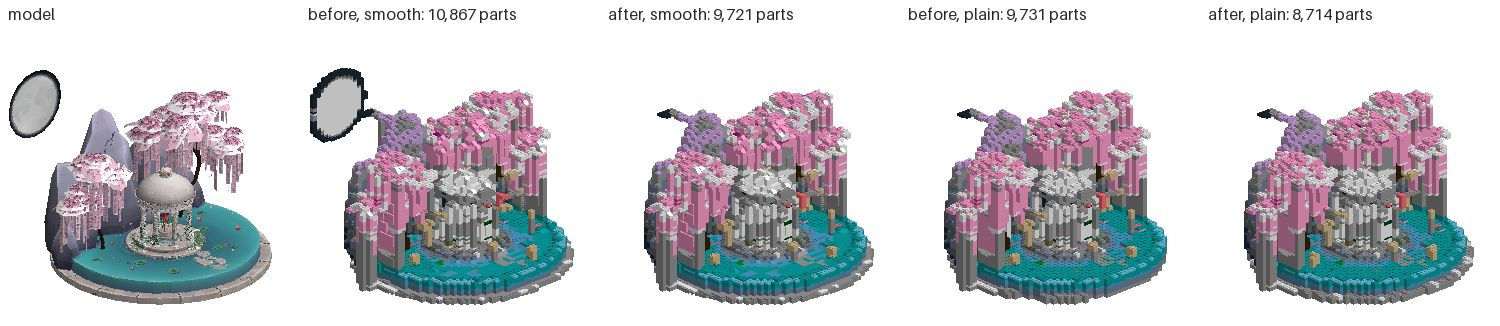
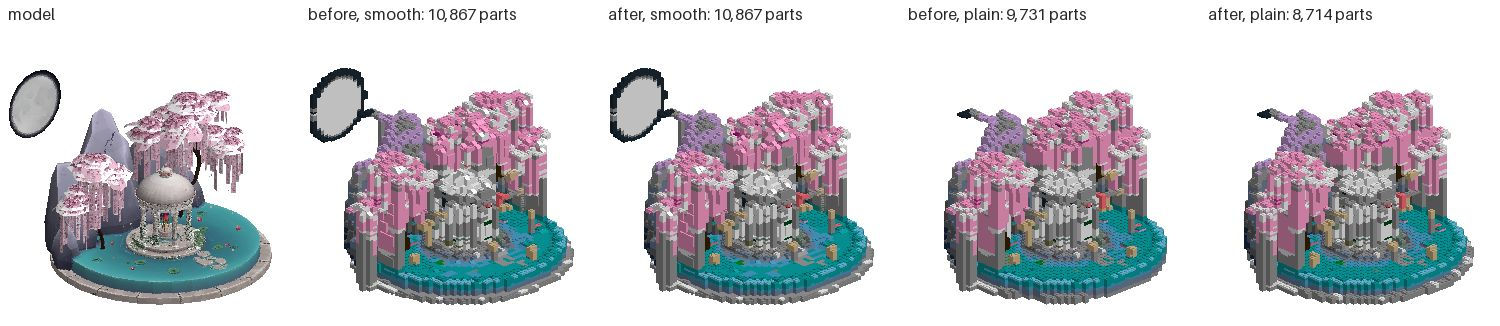
Write up the re-laid temple: its moon back, the bond's gains elsewhere, and the time it costs
Rounds that follow the work did not bring the moon back: 443 rounds, 332 s of
stitching, and the bonded layout still left it to the mend. Laying a bonded
build again where it leaves a region out did: the temple at 48 studs is
main's build part for part, lost95 0.817, smooth whole in 28 of 28 runs.
The bench's parts fall 12% at 48 studs, 2.42 times the greedy stack's.

diff --git a/docs/BRICKIFY.md b/docs/BRICKIFY.md
@@ -86,8 +86,8 @@ studs, against a greedy stack of standard bricks and legolization:
    kept, the forty-stud bunny 0.82 times `main`'s time; a figure's hair
    top and smooth against plain at 48 not there yet.*
 3. **Bond like a builder**: fewer, longer parts and staggered seams in the
-   hidden core. *2026-10-16, section 8: the hidden core in 43% fewer parts,
-   the builds 2.36 times the greedy stack's at 48 studs from 2.74, seams
+   hidden core. *2026-10-16, section 8: the hidden core in 39% fewer parts,
+   the builds 2.42 times the greedy stack's at 48 studs from 2.74, seams
    bridged 45% from 42%; three quarters of the parts show, so 1.6 times
    needs unit 4's surface.*
 4. **Fit the surface by distance**, with the slope angles it lacks.
@@ -1453,22 +1453,23 @@ bridged (greedy 52.9%) and 25.9% of its parts weak points (greedy 18.8%).
 Branch `worktree-agent-a6d1f2bc253969c28`, from `main` at `aad2371` with the
 m39 release (`a1d1998`) merged.
 
-**In short.** The hidden core is laid in 43% fewer parts, and the builds in
-14% fewer at 48 studs (51,014 from 59,156) and 12% fewer at 24: 2.36 times
-the greedy stack's at 48 (from 2.74), plain 1.84 (from 2.25). 1 x 1s are
-35.0% (from 37.8%), seams bridged 44.9% (from 42.1%), and stud joints past
-their working load 14 (from 48). Weak points rose, 27.1% of the parts from
-25.9%, though there are 8% fewer of them. The four targets on the bond
-(1.6 times the parts, 20% 1 x 1s, 60% of seams bridged, greedy's weak
+**In short.** The hidden core is laid in 39% fewer parts, and the builds in
+12% fewer at 48 studs (52,160 from 59,156) and at 24: 2.42 times the greedy
+stack's at 48 (from 2.74), plain 1.84 (from 2.25). 1 x 1s are 35.1% (from
+37.8%), seams bridged 44.9% (from 42.1%). Weak points rose, 27.2% of the
+parts from 25.9%, though there are fewer of them. The four targets on the
+bond (1.6 times the parts, 20% 1 x 1s, 60% of seams bridged, greedy's weak
 points) are all missed, and measured why: three quarters of smooth's parts
 are not hidden. With no hidden part at all, smooth at 48 studs would still
-be 2.04 times the greedy stack's parts, 41% of them 1 x 1s. Likeness and
-colour are unchanged on 13 of the 14 models. The fourteenth, the temple at
-48 studs smooth, lost the moon on its stick (lost95 2.15 studs from 0.82):
-smooth is whole in 27 of 28 runs, from 28, a target missed, and ΔE2000 at
-48 studs smooth is 1.31 times the floor from 1.27, all but 0.02 of it the
-moon. Plain is whole in 27 of 28, as before. The bunny takes 1.05 times
-`main`'s time.
+be 2.04 times the greedy stack's parts, 41% of them 1 x 1s. The rest holds:
+smooth whole in 28 of 28 runs and plain in 27, as on `main`; likeness and
+ΔE2000 unchanged (1.27 times the floor at 48 smooth); stud joints past their
+working load fewer or as many on all but 4 runs (22 from 29 at 48 plain).
+The bonded temple at 48 studs lost the moon on its stick, so a bonded build
+that leaves a region of the model out is laid again by the colours measured
+(item 5 below): the temple is `main`'s build again, and on the bench's
+largest scene that doubles its time. The forty-stud bunny takes 1.03 to
+1.08 times `main`'s time in three batches.
 
 **What was wrong.** Two faults, and a limit.
 
@@ -1517,7 +1518,13 @@ for it with `bond`, and a design's shapes lay as before):
    across the middle and its halves mirrored, its hidden bricks in the main
    colour: laid as the others are, a plain sphere's seams bridged fell from
    67% to 57%.
-5. **The bench** draws a build cut in half (`pictures --cut`), its parts
+5. **A bonded build is kept only if it keeps as much of the model**
+   (`Options.bond`, `build`). Where it leaves a region of the model out, it
+   is laid again by the colours measured and the one that fills more of the
+   model kept, the time of both counted. On the bench this lays 4 of the
+   56 runs twice and keeps the unbonded build on one: the temple at 48
+   studs smooth, whose moon comes back.
+6. **The bench** draws a build cut in half (`pictures --cut`), its parts
    shaded apart, to see the courses inside.
 
 **Tried and taken out.**
@@ -1536,6 +1543,16 @@ for it with `bond`, and a design's shapes lay as before):
   the one with fewer parts apart: on the temple at 48 studs the bonded plan
   had fewer parts apart (1,045 against 1,107) and still lost its moon to the
   mend, and the lay took twice as long.
+- *Rounds that follow the work*: a round for each piece the plan began
+  apart in, on top of the 96, counted in rounds, not seconds, so a model
+  lays the same on a busy box and in a browser. The temple at 48 studs
+  began 543 pieces apart; its stitch ran 443 rounds of the 639 and stopped
+  because nothing more joined, 108 pieces still apart, in 332 s where its
+  96 rounds took 30. The mend took out 143 parts, not 349, but the moon was
+  among them: no way the stitch has joins it in the bonded layout.
+- *What of a course holds a thin part laid as it was*, and the merge kept
+  off thin parts: the moon still lost, and the toy car at 48 kept 210 more
+  parts.
 - *Splitting and merging about each weak point* (legolization's refinement
   [luo-slides]) was not tried: over half the weak points hold a surface
   part or the staircase's next plate alone (above).
@@ -1561,7 +1578,7 @@ them.
 | 24 | plain | after | 9,185 | 2.31 (2.34, 1.78 to 3.70) | 39.2% | 46.4% | 35.1% |
 | 24 | greedy | | 3,974 | 1.00 | 27.1% | 46.7% | 29.6% |
 | 48 | smooth | main | 59,156 | 2.74 (2.87, 2.28 to 4.28) | 37.8% | 42.1% | 25.9% |
-| 48 | smooth | after | 51,014 | 2.36 (2.45, 1.84 to 4.14) | 35.0% | 44.9% | 27.1% |
+| 48 | smooth | after | 52,160 | 2.42 (2.45, 1.84 to 4.14) | 35.1% | 44.9% | 27.2% |
 | 48 | plain | main | 48,598 | 2.25 (2.21, 1.63 to 3.80) | 38.0% | 47.0% | 28.3% |
 | 48 | plain | after | 39,597 | 1.84 (1.89, 1.36 to 3.26) | 34.0% | 51.2% | 30.6% |
 | 48 | greedy | | 21,574 | 1.00 | 19.5% | 52.9% | 18.8% |
@@ -1582,7 +1599,7 @@ more: their hidden core was bricks already, and the change there is fewer
 | figure | 2,695 → 2,393 (2.92 → 2.60) | 35% → 32% | 45% → 44% | 25% → 26% | 4 → 3 | 2 → 2 |
 | fox | 945 → 834 (3.06 → 2.70) | 37% → 37% | 38% → 42% | 40% → 42% | 1 → 2 | 2 → 2 |
 | milk truck | 4,149 → 3,348 (2.28 → 1.84) | 20% → 22% | 45% → 54% | 11% → 11% | 2 → 0 | 8 → 4 |
-| temple | 10,867 → 9,721 (2.88 → 2.57) | 51% → 49% | 37% → 36% | 33% → 32% | 35 → 1 | 219 → 349 |
+| temple | 10,867 → 10,867 (2.88 → 2.88), laid again unbonded | 51% → 51% | 37% → 37% | 33% → 33% | 35 → 35 | 219 → 219 |
 | Hayes bust | 7,720 → 5,476 (3.19 → 2.26) | 56% → 50% | 26% → 32% | 22% → 31% | 0 → 0 | 3 → 4 |
 | Bell X-1 | 650 → 630 (4.28 → 4.14) | 27% → 25% | 47% → 47% | 28% → 28% | 0 → 0 | 9 → 4 |
 | Spot | 5,082 → 4,405 (2.70 → 2.34) | 37% → 34% | 47% → 49% | 21% → 24% | 0 → 0 | 0 → 0 |
@@ -1597,31 +1614,34 @@ them) or showing, and the surface's own parts.
 | | Hidden bricks | Hidden plates | Bricks that show | Plates that show | Surface parts | All |
 |---|---|---|---|---|---|---|
 | main | 5,824 | 9,059 | 9,387 | 21,954 | 12,692 | 58,916 |
-| after | 5,609 | 2,893 | 9,720 | 19,920 | 12,632 | 50,774 |
+| after | 5,513 | 3,503 | 9,490 | 20,756 | 12,658 | 51,920 |
 | of them 1 x 1, main | 1,534 | 4,565 | 3,482 | 9,834 | 4,843 | 24,258 |
-| of them 1 x 1, after | 987 | 1,162 | 2,146 | 10,058 | 4,850 | 19,203 |
+| of them 1 x 1, after | 1,000 | 1,539 | 2,172 | 10,431 | 4,852 | 19,994 |
 
 **Whole, standing, and the time.**
 
 | Run | Arm | Studs | Whole | One piece, check passes | And stands, no joint past its load | On a stand | Joints past their load | Parts | Taken out by the mend (mean) | Seconds (mean) | Seconds (most) |
 |---|---|---|---|---|---|---|---|---|---|---|---|
 | main | smooth | 24 | 14/14 | 14/14 | 11/14 | 5 | 8 | 12,944 | 1.9 | 6.3 | 20 |
-| after | smooth | 24 | 14/14 | 14/14 | 11/14 | 5 | 3 | 11,353 | 1.7 | 5.6 | 19 |
+| after | smooth | 24 | 14/14 | 14/14 | 11/14 | 5 | 3 | 11,353 | 1.7 | 6.5 | 23 |
 | main | smooth | 48 | 14/14 | 14/14 | 9/14 | 2 | 48 | 59,156 | 18.9 | 36.4 | 171 |
-| after | smooth | 48 | 13/14 | 14/14 | 9/14 | 2 | 14 | 51,014 | 27.8 | 30.9 | 117 |
+| after | smooth | 48 | 14/14 | 14/14 | 9/14 | 2 | 48 | 52,160 | 18.5 | 48.0 | 332 |
 | main | plain | 24 | 14/14 | 14/14 | 10/14 | 5 | 18 | 10,807 | 1.2 | 4.9 | 18 |
-| after | plain | 24 | 14/14 | 14/14 | 10/14 | 5 | 11 | 9,185 | 1.2 | 3.9 | 15 |
+| after | plain | 24 | 14/14 | 14/14 | 10/14 | 5 | 11 | 9,185 | 1.2 | 4.9 | 21 |
 | main | plain | 48 | 13/14 | 14/14 | 9/14 | 3 | 29 | 48,598 | 20.8 | 23.2 | 111 |
-| after | plain | 48 | 13/14 | 14/14 | 11/14 | 3 | 22 | 39,597 | 16.4 | 20.0 | 108 |
+| after | plain | 48 | 13/14 | 14/14 | 11/14 | 3 | 22 | 39,597 | 16.4 | 36.7 | 323 |
 
 Every run laid the model, in one piece, its check passing, in both. The
 seconds are not a fair ratio: `main` and the branch were laid two hours
 apart on a box shared with other jobs (a load of 25 to 40 each time); the
-bunny below is. Joints past their working load fell on 9 runs (the temple
-at 48 smooth 35 to 1) and rose on 4 (the toy car at 48 smooth 0 to 2, the
-fox at 48 smooth 1 to 2, the temple at 24 plain 3 to 5, the figure at 48
-plain 3 to 4). The mend took out more at 48 smooth (27.8 a run from 18.9):
-the temple's 349 parts from 219; the other 13 runs together 5 fewer.
+bunny below is. The four runs that leave a region out (the temple at 48,
+smooth and plain, the X-1 at 24 smooth, the toy car at 24 plain) are laid
+twice: the temple at 48 took 332 s smooth and 323 plain, from 171 and 111.
+The temple, the X-1 and the toy car are counted above from the run that
+laid them again, the other eleven models from the first after run. Joints past their working
+load fell on 8 runs and rose on 4 (the toy car at 48 smooth 0 to 2, the fox
+at 48 smooth 1 to 2, the temple at 24 plain 3 to 5, the figure at 48 plain
+3 to 4).
 
 **Likeness and colour**, the means of every model (ΔE2000 over the 10 with
 colours of their own).
@@ -1633,16 +1653,15 @@ colours of their own).
 | 24 | plain | main | 0.877 | 0.235 | 0.42 | 0.74 | 0.928 | 41.8 | 10.77 | 1.45 |
 | 24 | plain | after | 0.876 | 0.238 | 0.42 | 0.75 | 0.926 | 41.8 | 10.77 | 1.45 |
 | 48 | smooth | main | 0.927 | 0.264 | 0.47 | 0.98 | 0.906 | 37.4 | 9.46 | 1.27 |
-| 48 | smooth | after | 0.925 | 0.276 | 0.57 | 0.98 | 0.905 | 37.6 | 9.72 | 1.31 |
+| 48 | smooth | after | 0.927 | 0.263 | 0.47 | 0.98 | 0.906 | 37.3 | 9.47 | 1.27 |
 | 48 | plain | main | 0.926 | 0.267 | 0.54 | 0.93 | 0.928 | 38.5 | 9.11 | 1.23 |
 | 48 | plain | after | 0.927 | 0.265 | 0.53 | 0.93 | 0.929 | 38.3 | 9.08 | 1.22 |
 
-The change at 48 smooth is the temple's moon: without the temple, IoU
-0.928 and 0.928, Chamfer 0.254 and 0.254 studs, lost95 0.45 and 0.45,
-ΔE2000 9.16 and 9.18. Model by model, ΔE2000 is within 0.1 of `main`'s on
-every coloured run but four: the temple at 48 smooth (14.57 from 12.11),
-the toy car at 48 (13.19 from 12.98 smooth, 12.07 from 11.86 plain), and
-the avocado at 48 plain, better (8.66 from 8.96).
+The temple at 48 smooth is `main`'s build part for part, its moon on its
+stick (lost95 0.817 studs, measured again). Model by model, ΔE2000 is
+within 0.1 of `main`'s on every coloured run but three: the toy car at 48
+(13.19 from 12.98 smooth, 12.07 from 11.86 plain) and the avocado at 48
+plain, better (8.66 from 8.96).
 
 **Where the time goes**, the forty-stud bunny laid three times by `main`
 and by the branch side by side, twice in turn (medians of the six,
@@ -1654,35 +1673,37 @@ seconds):
 | branch | 9.98 (8.87 to 10.80) | 1.08 | 5.74 (3.32, 1.96, 0.07) | 3.12 |
 
 1.05 times `main`'s time, the ranges overlapping; in an earlier batch on a
-calmer box, 5.87 s against 5.70 (1.03). The core's lay is 0.2 s more (what
+calmer box, 5.87 s against 5.70 (1.03); after the last commit, which lays
+the bunny the same, three each side by side, 6.93 s against 6.40 (1.08). The core's lay is 0.2 s more (what
 shows is asked of every plate), the stitch 0.2 s less, the merge 0.07 s;
 the check 0.26 s more, on 35 fewer parts.
 
 **What the numbers say.**
 1. **The hidden core is bricks.** At 48 studs smooth its plates fell from
-   9,059 to 2,893 and its parts from 14,883 to 8,502, 43% fewer; over the
-   whole build, 14% fewer parts (8,142), 12% at 24 studs. Plain, whose core
-   is a larger share, 19% and 15%.
+   9,059 to 3,503 and its parts from 14,883 to 9,016, 39% fewer; over the
+   whole build, 12% fewer parts (6,996), 12% at 24 studs. Plain, whose core
+   is a larger share, 19% and 15%. The temple at 48 smooth, laid again
+   unbonded, keeps none of it.
 2. **The targets were set on the core, and the parts are in the surface.**
-   Parts are 2.36 times the greedy stack's at 48 studs smooth (target 1.6)
+   Parts are 2.42 times the greedy stack's at 48 studs smooth (target 1.6)
    and 1.84 plain; laid plain, three models reach it (the milk truck 1.36,
    the avocado 1.48, Spot 1.60), and none smooth (the nearest 1.84). 1 x 1s
-   are 35.0% (target 20%): of the 19,203 left at 48 smooth, 10,058 are plates
-   of the staircase and 4,850 slopes and tiles a stud wide. Seams bridged
-   44.9% (target 60%), weak points 27.1% (target greedy's 18.8%), the share
-   up because the parts fell faster than the weak points did (13,734 from
-   14,875).
-3. **It stands better.** Stud joints past their working load fell from 48 to
-   14 at 48 studs smooth and from 29 to 22 plain, 8 to 3 and 18 to 11 at 24;
-   standing runs are as many or more (plain at 48, 11 of 14 from 9).
-4. **Likeness and colour are unchanged but for one run.** On every other run
-   IoU is within 0.012 of `main`'s, Chamfer within 0.03 studs, lost95 within
-   0.05 (the largest each the temple laid plain, or the Hayes bust at 24),
-   and ΔE2000 within 0.1 but for the toy car at 48 (0.2 worse) and the
-   avocado plain at 48 (0.3 better). The temple at 48 smooth lost its moon
-   (below).
-5. **Time is within a few per cent**: the bunny takes 1.05 times `main`'s
-   time, and took 1.03 in an earlier batch (this unit but its last commit).
+   are 35.1% (target 20%): of the 19,994 left at 48 smooth, 10,431 are plates
+   of the staircase and 4,852 slopes and tiles a stud wide. Seams bridged
+   44.9% (target 60%), weak points 27.2% (target greedy's 18.8%), the share
+   up because the parts fell faster than the weak points did.
+3. **It stands as well or better.** Stud joints past their working load fell
+   from 29 to 22 at 48 studs plain, 8 to 3 and 18 to 11 at 24, and stayed 48
+   at 48 smooth (35 of them the temple's, `main`'s build); standing runs are
+   as many or more (plain at 48, 11 of 14 from 9).
+4. **Likeness, colour and the whole model are unchanged.** Smooth is whole
+   in 28 of 28 runs and plain in 27; IoU within 0.012 of `main`'s on every
+   run, Chamfer within 0.03 studs, lost95 within 0.05 (the largest each the
+   temple laid plain, or the Hayes bust at 24); ΔE2000 within 0.1 but for
+   the toy car at 48 (0.2 worse) and the avocado plain at 48 (0.3 better).
+5. **Time**: the bunny takes 1.03 to 1.08 times `main`'s time in three
+   batches. The four runs that leave a region out are laid twice; the
+   temple at 48 studs, the bench's largest, takes about twice as long.
 
 Spot at 48 studs (Keenan Crane, CC0): from outside, the same build, its
 patches where they were, in 4,405 parts from 5,082 (smooth) and 3,008 from
@@ -1696,8 +1717,9 @@ before, the core's courses are bands of plates; after, long bricks.
 
 ![The milk truck at 48 studs cut in half: the model, then smooth before and after](brickify/unit3-milk-truck-48-cut.jpg)
 
-The temple at 48 studs (Objaverse, CC-BY 4.0): smooth loses the moon on
-its stick, as plain did and does.
+The temple at 48 studs (Objaverse, CC-BY 4.0): laid bonded, smooth lost
+the moon on its stick; laid again by the colours measured, it keeps it, as
+`main` does. Plain loses it before and after.
 
 ![The temple at 48 studs: the model, then smooth and plain before and after](brickify/unit3-objaverse-48.jpg)
 
@@ -1734,12 +1756,10 @@ its stick, as plain did and does.
 - **Weak points**: most hold a surface part or the staircase's next plate
   alone. A slope that stands on two parts, or a staircase plate that reaches
   under the next stud, would take them out; the core cannot.
-- **The temple at 48 studs smooth** loses its moon on its stick again, as
-  plain does: its stitch runs out of its 96 rounds with about 420 pieces
-  apart either way, and the mend takes out 349 parts where it took 219.
-  Laid with the merge alone, or the bonded courses alone, it loses the moon
-  too: any change to its layout does. Joining a piece a round is the limit
-  (unit 2b's "what is left").
+- **The temple at 48 studs**: bonded, its stitch cannot join the moon on
+  its stick, with 96 rounds or 443, and plain loses it either way. Laying
+  it twice keeps the moon but doubles the time of the bench's largest
+  scene; joining a piece a round is the limit (unit 2b's "what is left").
 - **Seams bridged** rose 3 to 4 points, short of 60%. With the hemmed-in
   studs first, a course has one placement for each brick; a stagger needs
   the choice made over the whole course (Kollsker's lookahead), not stud by

diff --git a/.claude/skills/verify/features/brickify.md b/.claude/skills/verify/features/brickify.md
@@ -69,7 +69,10 @@ A 3D model — a sculpt, a scan, anything in OBJ, STL or glTF — laid in LEGO a
   one colour where it shows and is sold in it (`Plan._made`); a shape that is
   its own mirror keeps its strip and mirrored halves; and once stitched, two
   plain parts side by side that make a part we lay, and three plates of one
-  footprint stacked, merged (a merge only joins, so never more pieces);
+  footprint stacked, merged (a merge only joins, so never more pieces); a
+  bonded build that leaves a region of the model out laid again by the colours
+  measured (`Options.bond` false) and the one filling more kept, both times
+  counted (the temple at 48 studs keeps its moon so, at twice the time);
   every piece kept (`keep_pieces`: no prune, nothing
   left off unsaid) and, once the grid's own stitch is spent (the plan mapped
   once a round for it, not once a piece tried; its first ways, kept
@@ -267,11 +270,11 @@ XDG_DATA_HOME=$PWD/.scratch-data heavy godot --headless --path . --script src/de
 heavy $S/venv/bin/python -I tools/bench/brickify_bench.py measure $S/run
 python3 tools/bench/brickify_bench.py report $S/run
 #   2026-10-17 after unit 3 (docs/BRICKIFY.md section 8), against a1d1998: smooth at
-#   48 studs 51,014 parts from 59,156 (2.36 times the greedy stack's from 2.74), 1x1s
-#   35.0% from 37.8%, seams bridged 44.9% from 42.1%, weak points 27.1% from 25.9%,
-#   joints past their load 14 from 48; likeness and ΔE2000 unchanged but the temple at
-#   48 smooth, which lost its moon (whole 27 of 28 from 28). `bond OUT` gives the bond
-#   figures without ray casting; `pictures --cut` draws each build cut in half.
+#   48 studs 52,160 parts from 59,156 (2.42 times the greedy stack's from 2.74), 1x1s
+#   35.1% from 37.8%, seams bridged 44.9% from 42.1%, weak points 27.2% from 25.9%;
+#   whole 28 of 28 smooth and 27 plain, likeness and ΔE2000 unchanged; the temple at 48
+#   laid twice (bonded, it lost its moon), about twice its time. `bond OUT` gives the
+#   bond figures without ray casting; `pictures --cut` draws each build cut in half.
 #   2026-10-16 after unit 2 (docs/BRICKIFY.md section 6), against 2789cd0: ΔE2000
 #   on the 10 coloured models 1.28 times the floor at 48 studs (from 1.54), 1.54 at
 #   24 (from 2.00); Spot's neutral surface laid in a colour 0% (from 40%), the
